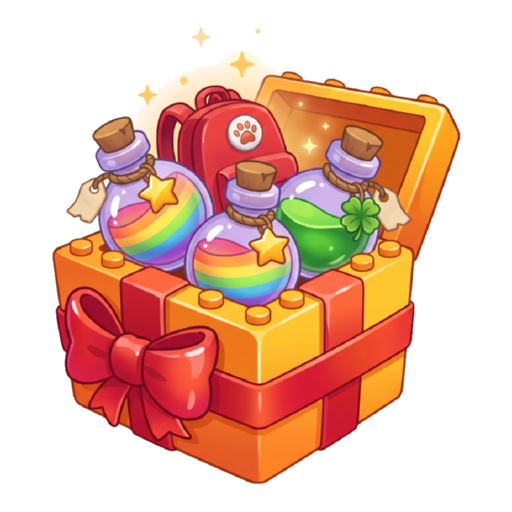
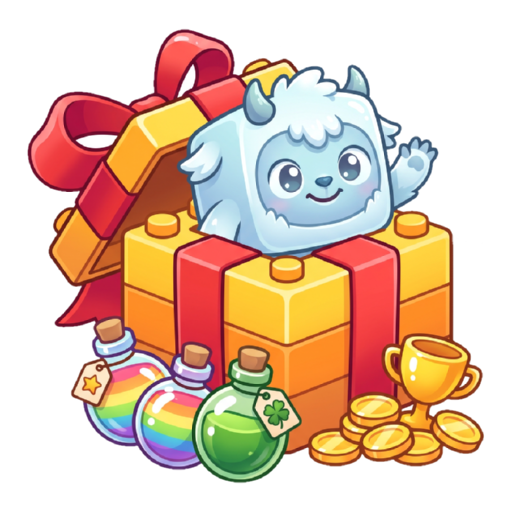
Starter Pack gorseli yenilendi: Yeti peti ve Win paralari eklendi (Gemini); Creator Hub urun gorseli yuklendi

diff --git a/tools/icons/cutout.py b/tools/icons/cutout.py
@@ -33,7 +33,7 @@ JOBS = {
     "daily": ("daily_2048.png", {"min": 400, "top": 0.3}, None),
     "powerhour": ("powerhour_2048.png", False, None),
     "powerhour_bolt": ("powerhour_bolt_2048.png", False, None),
-    "starterpack": ("starterpack_2048.png", False, None),
+    "starterpack": ("starterpack_v2_2048.png", False, None),
     "quests": ("Gemini_Generated_Image_15n63x15n63x15n6 (9).jpg", False, None),
     "trophy": ("Gemini_Generated_Image_15n63x15n63x15n6.jpg", {"min": 4000}, None),
     "stats": ("Gemini_Generated_Image_ahpjimahpjimahpj (1).jpg", False, None),
